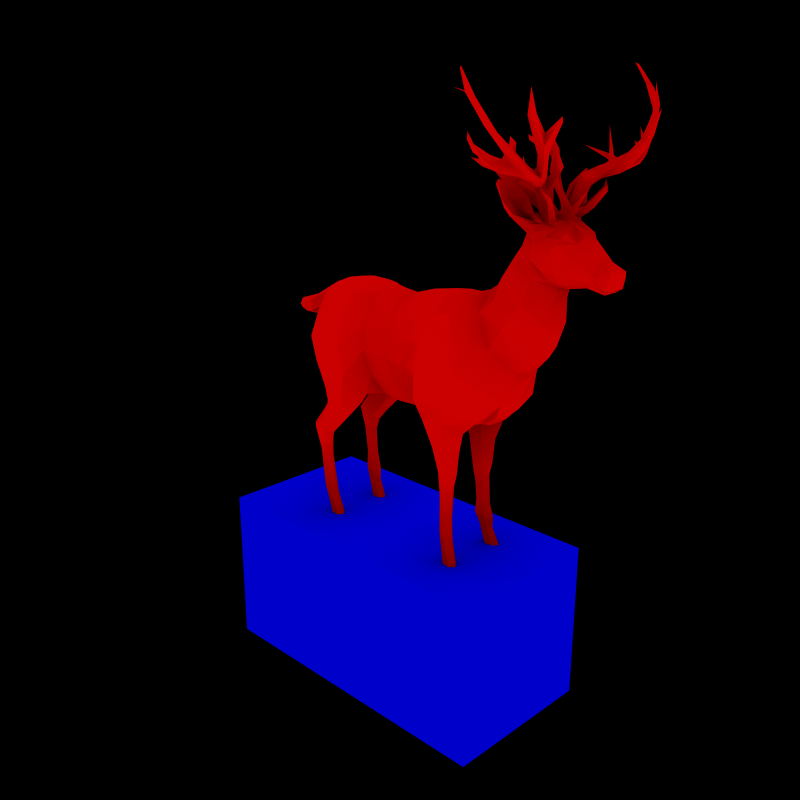
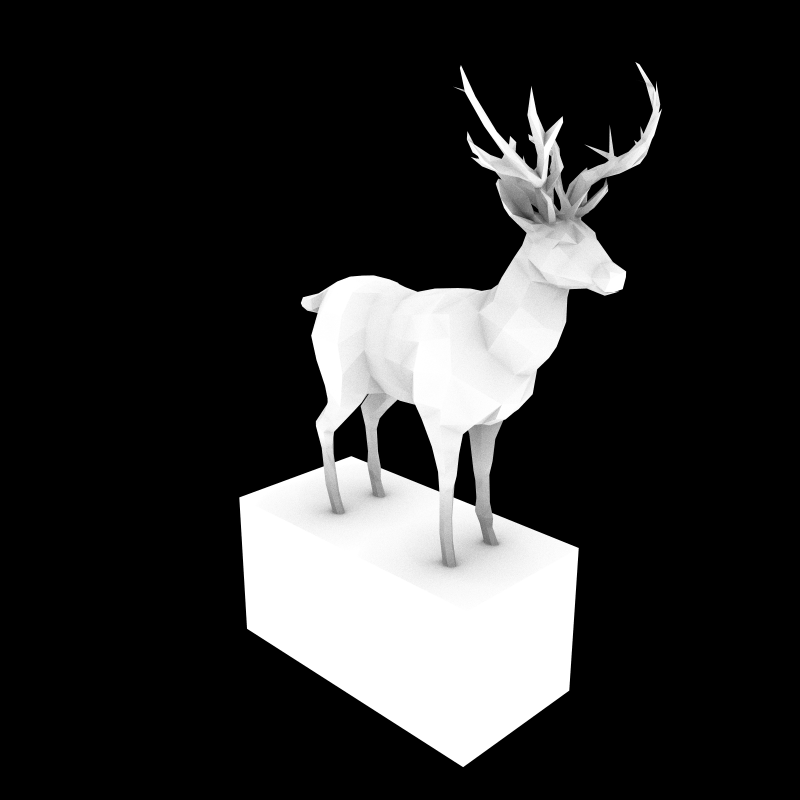
Add lanbert bsdf to objects in scene

Changed region(s): [[0.2812, 0.0938, 0.8438, 0.9688], [0.5625, 0.0938, 0.5938, 0.125]]

diff --git a/src/scene.rs b/src/scene.rs
@@ -1,14 +1,15 @@
-use obj::{Obj, SimplePolygon};
+use nalgebra::{Point3, Vector3};
 use ncollide3d::{
     math::Isometry,
+    shape::{Cuboid, ShapeHandle, TriMesh},
     world::{CollisionGroups, CollisionWorld, GeometricQueryType},
-    shape::{ShapeHandle, TriMesh, Cuboid},
 };
-use nalgebra::{Point3, Vector3};
+use obj::{Obj, SimplePolygon};
 
 use std::path::Path;
 
 use crate::object::ObjectData;
+use crate::shaders::lambert::LambertBSDF;
 
 pub struct Scene {
     pub collision_world: CollisionWorld<f32, ObjectData>,
@@ -40,7 +41,7 @@ impl Scene {
         let mut world = CollisionWorld::new(0.0001f32);
         let mesh_transform = Isometry::translation(0.0, 0.0, -1.0);
         let mesh_data = ObjectData {
-            albedo: Some(Point3::new(0.8,0.0,0.0)),
+            bsdf: Some(Box::new(LambertBSDF::new(Vector3::new(0.8, 0.0, 0.0)))),
             ..Default::default()
         };
         world.add(
@@ -52,7 +53,7 @@ impl Scene {
         );
         let pedestal_transform = Isometry::translation(0.0, 0.0, -1.8);
         let pedestal_data = ObjectData {
-            albedo: Some(Point3::new(0.0,0.0,0.8)),
+            bsdf: Some(Box::new(LambertBSDF::new(Vector3::new(0.0, 0.0, 0.8)))),
             ..Default::default()
         };
         world.add(

diff --git a/src/integrators/ao_integrator.rs b/src/integrators/ao_integrator.rs
@@ -51,10 +51,9 @@ impl AOIntegrator {
 
         let sampler = CosineWeightedHemisphereSampler;
         let ray_samples = Point2::new(rng.gen_range(0.0, 1.0), rng.gen_range(0.0, 1.0));
-        let new_ray_origin = ray.point_at(min_intersection.toi - 0.01);
+        let new_ray_origin = ray.point_at(min_intersection.toi - 0.001);
         let (new_ray_direction, new_ray_probability) =
             sampler.sample(&ray_samples, &min_intersection.normal);
-        //        println!("{:?}, {:?}", min_intersection.normal, new_ray_direction);
         let new_ray = Ray::new(new_ray_origin, new_ray_direction);
 
         let mut min_toi = f32::MAX;
@@ -69,7 +68,7 @@ impl AOIntegrator {
         if min_toi < self.range {
             Point3::new(0.0, 0.0, 0.0)
         } else {
-            (1.0 / (2.0 * PI)) * min_data.albedo.as_ref().unwrap().clone() / new_ray_probability
+            (1.0 / (2.0 * PI)) * Point3::new(1.0, 1.0, 1.0) / new_ray_probability
         }
     }
 }

diff --git a/src/main.rs b/src/main.rs
@@ -26,5 +26,5 @@ fn main() {
         .screen_dimensions(Vector2::new(0.8, 0.8))
         .resolution(Vector2::new(800, 800))
         .build();
-    camera.compute_samples(&scene, 10000);
+    camera.compute_samples(&scene, 100000);
 }
